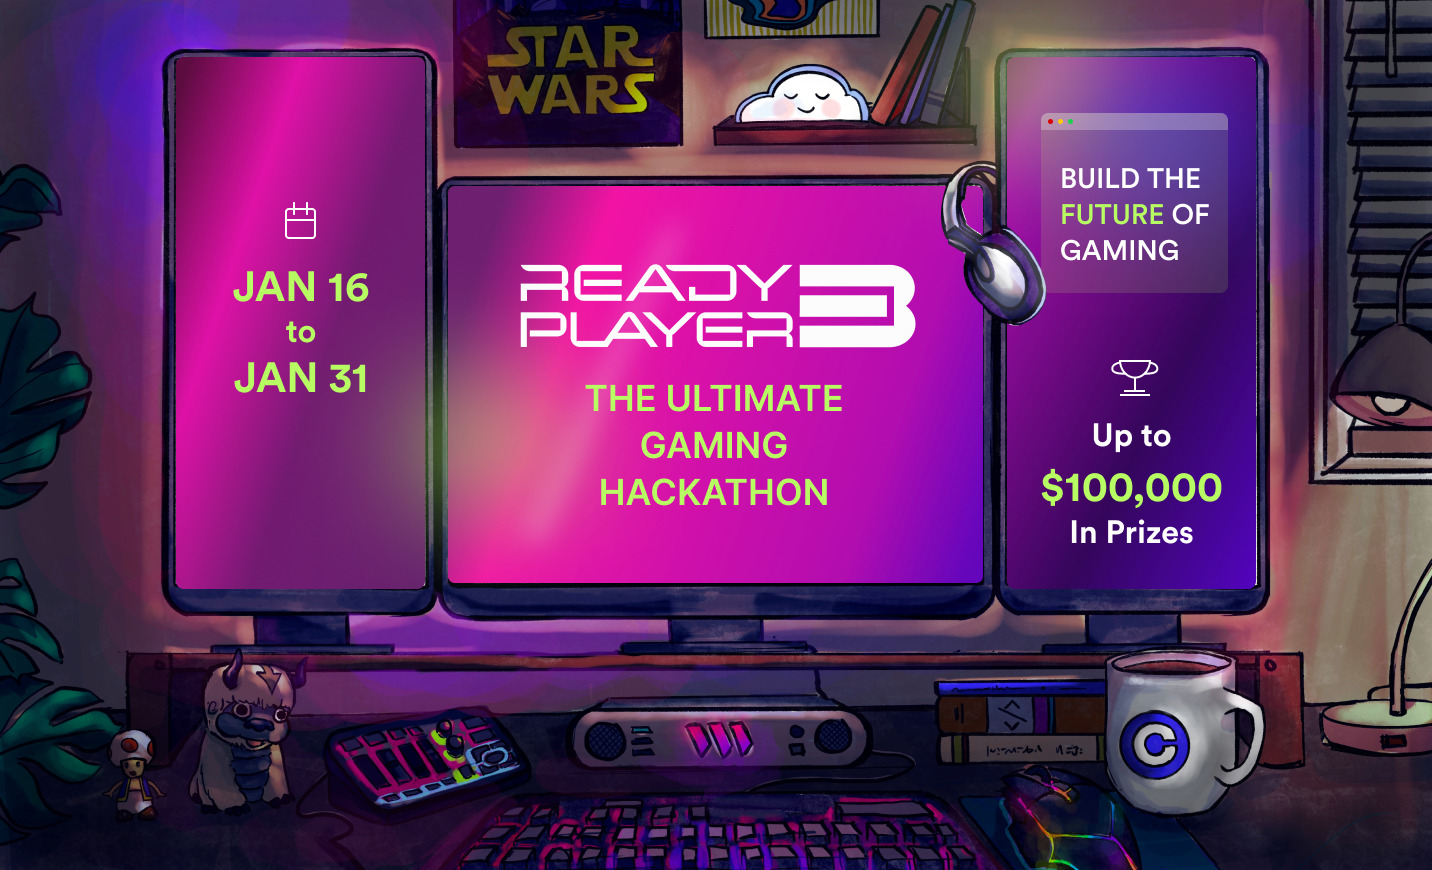
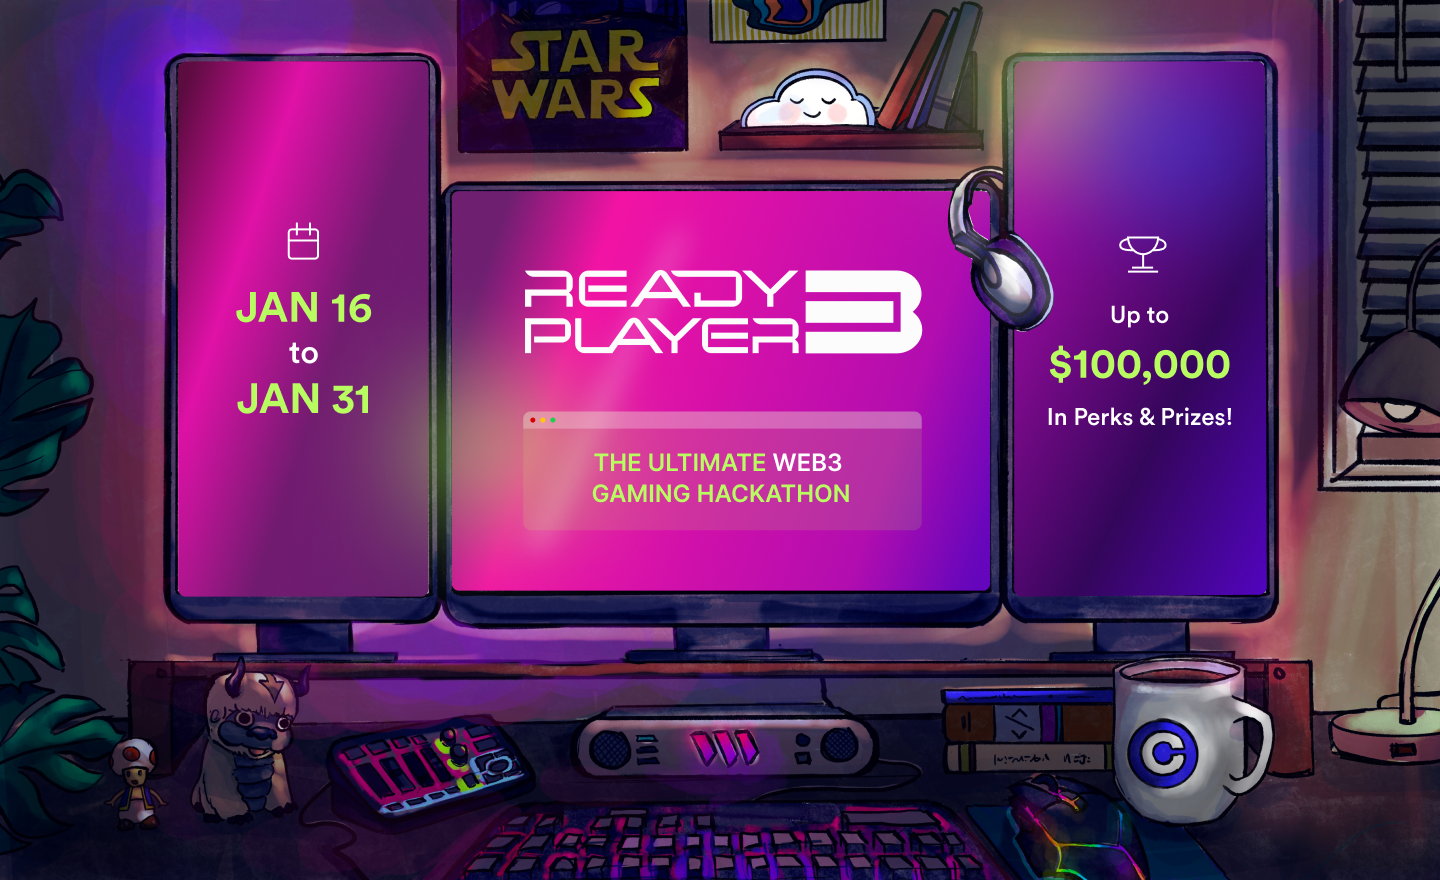
feat: update rp3 og image (#772)

diff --git a/pages/hackathon/readyplayer3.tsx b/pages/hackathon/readyplayer3.tsx
@@ -207,8 +207,8 @@ const ReadyPlayer3Landing: ThirdwebNextPage = () => {
           images: [
             {
               url: "/assets/og-image/readyplayer3.png",
-              width: 1435,
-              height: 871,
+              width: 1440,
+              height: 880,
               alt: "thirdweb gaming hackathon: January 16 - 31",
             },
           ],
